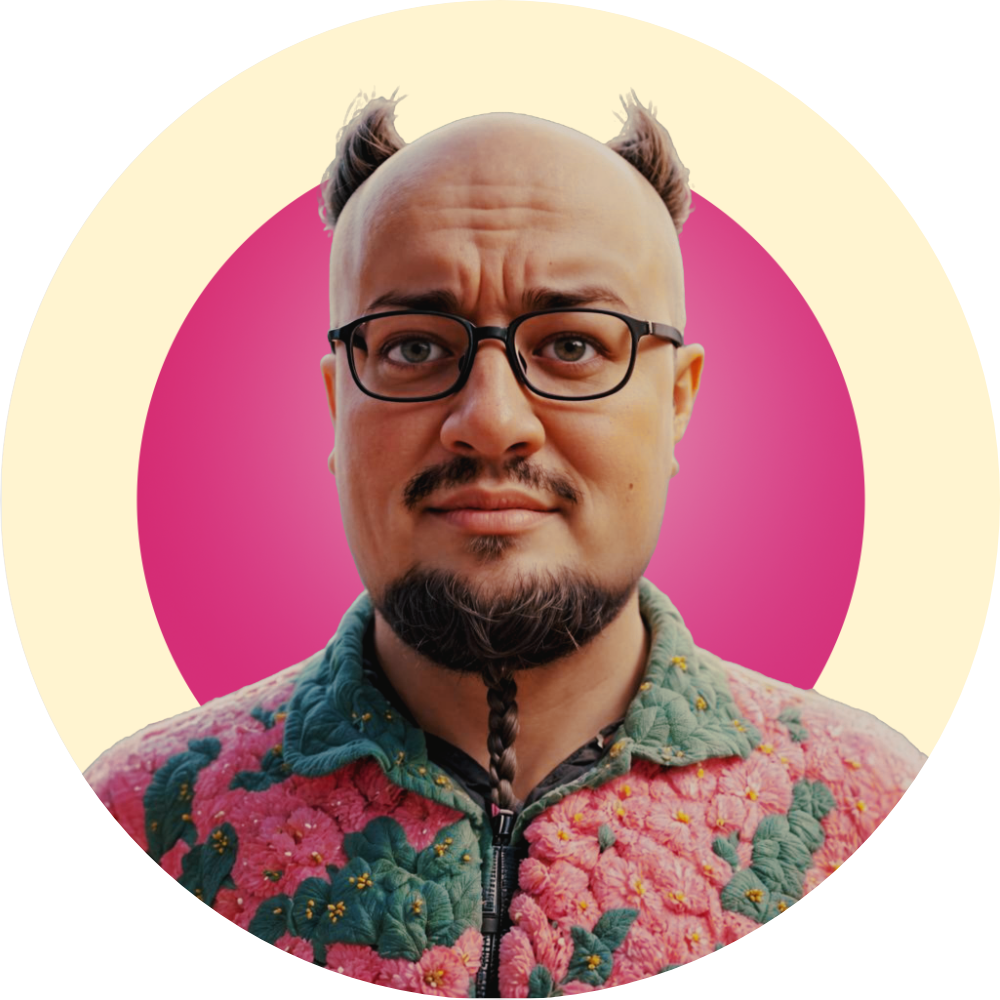
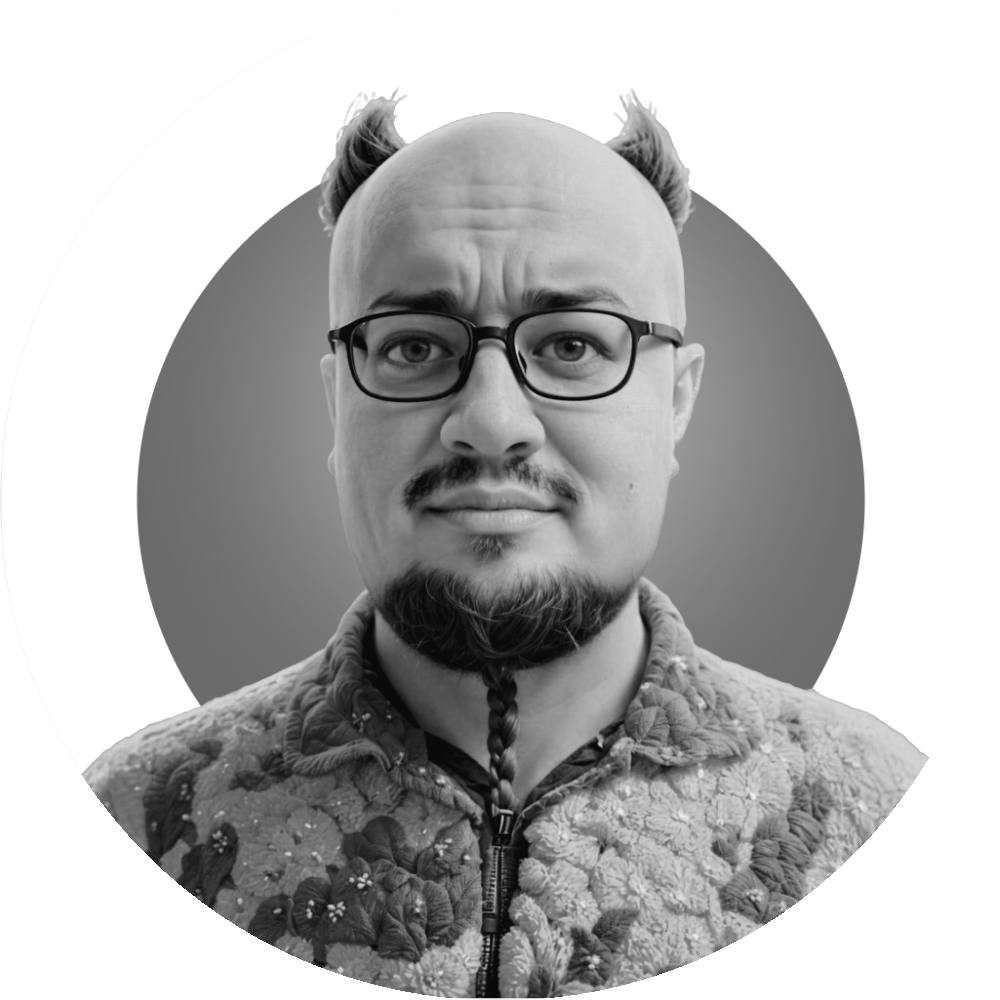
базовая версия
Update homepage content, enhance tab navigation styling, and improve achievements and career tabs. Adjusted skill tab layout and updated music career achievements. Replaced avatar image.

diff --git a/components/TabNavigation.tsx b/components/TabNavigation.tsx
@@ -11,45 +11,47 @@ interface TabNavigationProps {
 
 export function TabNavigation({ activeTab, onTabChange }: TabNavigationProps) {
   return (
-    <Tabs value={activeTab} onValueChange={(value) => onTabChange(value as TabValue)} className="w-full">
-      <TabsList className="inline-flex h-10 items-center justify-center rounded-md bg-white p-1 text-muted-foreground border border-gray-200">
-        <TabsTrigger 
-          value="personal"
-          className="inline-flex items-center justify-center whitespace-nowrap rounded-sm px-3 py-1.5 text-sm font-medium ring-offset-background transition-all focus-visible:outline-none focus-visible:ring-2 focus-visible:ring-ring focus-visible:ring-offset-2 disabled:pointer-events-none disabled:opacity-50 data-[state=active]:bg-gray-100 data-[state=active]:text-gray-900 data-[state=active]:shadow-sm"
-        >
-          Personal
-        </TabsTrigger>
-        <TabsTrigger 
-          value="career"
-          className="inline-flex items-center justify-center whitespace-nowrap rounded-sm px-3 py-1.5 text-sm font-medium ring-offset-background transition-all focus-visible:outline-none focus-visible:ring-2 focus-visible:ring-ring focus-visible:ring-offset-2 disabled:pointer-events-none disabled:opacity-50 data-[state=active]:bg-gray-100 data-[state=active]:text-gray-900 data-[state=active]:shadow-sm"
-        >
-          Career
-        </TabsTrigger>
-        <TabsTrigger 
-          value="achievements"
-          className="inline-flex items-center justify-center whitespace-nowrap rounded-sm px-3 py-1.5 text-sm font-medium ring-offset-background transition-all focus-visible:outline-none focus-visible:ring-2 focus-visible:ring-ring focus-visible:ring-offset-2 disabled:pointer-events-none disabled:opacity-50 data-[state=active]:bg-gray-100 data-[state=active]:text-gray-900 data-[state=active]:shadow-sm"
-        >
-          Achievements
-        </TabsTrigger>
-        <TabsTrigger 
-          value="skills"
-          className="inline-flex items-center justify-center whitespace-nowrap rounded-sm px-3 py-1.5 text-sm font-medium ring-offset-background transition-all focus-visible:outline-none focus-visible:ring-2 focus-visible:ring-ring focus-visible:ring-offset-2 disabled:pointer-events-none disabled:opacity-50 data-[state=active]:bg-gray-100 data-[state=active]:text-gray-900 data-[state=active]:shadow-sm"
-        >
-          Skills
-        </TabsTrigger>
-        <TabsTrigger 
-          value="timeline"
-          className="inline-flex items-center justify-center whitespace-nowrap rounded-sm px-3 py-1.5 text-sm font-medium ring-offset-background transition-all focus-visible:outline-none focus-visible:ring-2 focus-visible:ring-ring focus-visible:ring-offset-2 disabled:pointer-events-none disabled:opacity-50 data-[state=active]:bg-gray-100 data-[state=active]:text-gray-900 data-[state=active]:shadow-sm"
-        >
-          Timeline
-        </TabsTrigger>
-        <TabsTrigger 
-          value="music"
-          className="inline-flex items-center justify-center whitespace-nowrap rounded-sm px-3 py-1.5 text-sm font-medium ring-offset-background transition-all focus-visible:outline-none focus-visible:ring-2 focus-visible:ring-ring focus-visible:ring-offset-2 disabled:pointer-events-none disabled:opacity-50 data-[state=active]:bg-gray-100 data-[state=active]:text-gray-900 data-[state=active]:shadow-sm"
-        >
-          Music
-        </TabsTrigger>
-      </TabsList>
-    </Tabs>
+    <div className="flex justify-center w-full">
+      <Tabs value={activeTab} onValueChange={(value) => onTabChange(value as TabValue)} className="w-full max-w-4xl">
+        <TabsList className="inline-flex h-10 items-center justify-center rounded-md bg-white p-1 text-gray-500 border border-gray-200 w-full">
+          <TabsTrigger 
+            value="personal"
+            className="inline-flex items-center justify-center whitespace-nowrap rounded-sm px-3 py-1.5 text-sm font-medium ring-offset-background transition-all focus-visible:outline-none focus-visible:ring-2 focus-visible:ring-ring focus-visible:ring-offset-2 disabled:pointer-events-none disabled:opacity-50 data-[state=active]:bg-gray-100 data-[state=active]:text-gray-900 data-[state=active]:shadow-sm hover:text-gray-900"
+          >
+            Personal
+          </TabsTrigger>
+          <TabsTrigger 
+            value="career"
+            className="inline-flex items-center justify-center whitespace-nowrap rounded-sm px-3 py-1.5 text-sm font-medium ring-offset-background transition-all focus-visible:outline-none focus-visible:ring-2 focus-visible:ring-ring focus-visible:ring-offset-2 disabled:pointer-events-none disabled:opacity-50 data-[state=active]:bg-gray-100 data-[state=active]:text-gray-900 data-[state=active]:shadow-sm hover:text-gray-900"
+          >
+            Career
+          </TabsTrigger>
+          <TabsTrigger 
+            value="achievements"
+            className="inline-flex items-center justify-center whitespace-nowrap rounded-sm px-3 py-1.5 text-sm font-medium ring-offset-background transition-all focus-visible:outline-none focus-visible:ring-2 focus-visible:ring-ring focus-visible:ring-offset-2 disabled:pointer-events-none disabled:opacity-50 data-[state=active]:bg-gray-100 data-[state=active]:text-gray-900 data-[state=active]:shadow-sm hover:text-gray-900"
+          >
+            Achievements
+          </TabsTrigger>
+          <TabsTrigger 
+            value="skills"
+            className="inline-flex items-center justify-center whitespace-nowrap rounded-sm px-3 py-1.5 text-sm font-medium ring-offset-background transition-all focus-visible:outline-none focus-visible:ring-2 focus-visible:ring-ring focus-visible:ring-offset-2 disabled:pointer-events-none disabled:opacity-50 data-[state=active]:bg-gray-100 data-[state=active]:text-gray-900 data-[state=active]:shadow-sm hover:text-gray-900"
+          >
+            Skills
+          </TabsTrigger>
+          <TabsTrigger 
+            value="timeline"
+            className="inline-flex items-center justify-center whitespace-nowrap rounded-sm px-3 py-1.5 text-sm font-medium ring-offset-background transition-all focus-visible:outline-none focus-visible:ring-2 focus-visible:ring-ring focus-visible:ring-offset-2 disabled:pointer-events-none disabled:opacity-50 data-[state=active]:bg-gray-100 data-[state=active]:text-gray-900 data-[state=active]:shadow-sm hover:text-gray-900"
+          >
+            Timeline
+          </TabsTrigger>
+          <TabsTrigger 
+            value="music"
+            className="inline-flex items-center justify-center whitespace-nowrap rounded-sm px-3 py-1.5 text-sm font-medium ring-offset-background transition-all focus-visible:outline-none focus-visible:ring-2 focus-visible:ring-ring focus-visible:ring-offset-2 disabled:pointer-events-none disabled:opacity-50 data-[state=active]:bg-gray-100 data-[state=active]:text-gray-900 data-[state=active]:shadow-sm hover:text-gray-900"
+          >
+            Music
+          </TabsTrigger>
+        </TabsList>
+      </Tabs>
+    </div>
   );
 }

diff --git a/components/tabs/CareerTab.tsx b/components/tabs/CareerTab.tsx
@@ -13,15 +13,15 @@ export function CareerTab({ careers }: CareerTabProps) {
   return (
     <Card>
       <CardContent className="p-6">
-        <div className="space-y-8">
+        <div className="space-y-8 max-w-4xl mx-auto">
           {careers.map((role, index) => (
-            <div key={index} className="relative pl-6 border-l-2 border-blue-500">
-              <div className="absolute -left-[9px] top-0 w-4 h-4 bg-blue-500 rounded-full" />
+            <div key={index} className="relative pl-6 border-l-2 border-gray-300">
+              <div className="absolute -left-[9px] top-0 w-4 h-4 bg-gray-300 rounded-full" />
               
               <div className="flex flex-col md:flex-row md:items-center md:justify-between mb-2">
                 <div>
                   <h3 className="text-xl font-semibold text-gray-900">{role.title}</h3>
-                  <p className="text-lg text-blue-600">{role.company}</p>
+                  <p className="text-lg text-gray-700">{role.company}</p>
                 </div>
                 <div className="text-right">
                   <p className="text-sm text-gray-600">{role.period}</p>
@@ -49,7 +49,7 @@ export function CareerTab({ careers }: CareerTabProps) {
                   </div>
                   <div className="flex flex-wrap gap-2">
                     {role.achievements.map((achievement, idx) => (
-                      <Badge key={idx} variant="secondary" className="text-sm">
+                      <Badge key={idx} variant="secondary" className="text-sm bg-gray-100 text-gray-800 hover:bg-gray-200">
                         {achievement}
                       </Badge>
                     ))}
@@ -65,7 +65,7 @@ export function CareerTab({ careers }: CareerTabProps) {
                   </div>
                   <div className="flex flex-wrap gap-2">
                     {role.skills.map((skill, idx) => (
-                      <Badge key={idx} variant="outline" className="text-sm">
+                      <Badge key={idx} variant="outline" className="text-sm text-gray-700 border-gray-300 hover:bg-gray-50">
                         {skill}
                       </Badge>
                     ))}

diff --git a/components/tabs/AchievementsTab.tsx b/components/tabs/AchievementsTab.tsx
@@ -7,17 +7,17 @@ export function AchievementsTab() {
     <Card>
       <CardContent className="p-6">
         <div className="space-y-4">
-          <div className="bg-green-50 p-4 rounded-lg">
-            <h3 className="font-semibold text-green-800">$21M</h3>
-            <p className="text-sm text-green-600">Revenue generated through gamification projects</p>
+          <div className="border rounded-lg p-4">
+            <h3 className="font-semibold text-gray-900">$21M</h3>
+            <p className="text-sm text-gray-600">Revenue generated through gamification projects</p>
           </div>
-          <div className="bg-blue-50 p-4 rounded-lg">
-            <h3 className="font-semibold text-blue-800">Halva Brand Creation</h3>
-            <p className="text-sm text-blue-600">Most popular BNPL card in Belarus and Russia</p>
+          <div className="border rounded-lg p-4">
+            <h3 className="font-semibold text-gray-900">Halva Brand Creation</h3>
+            <p className="text-sm text-gray-600">Most popular BNPL card in Belarus and Russia</p>
           </div>
-          <div className="bg-purple-50 p-4 rounded-lg">
-            <h3 className="font-semibold text-purple-800">Published Author</h3>
-            <p className="text-sm text-purple-600">"Effective Branding" - Guide on innovative branding strategies</p>
+          <div className="border rounded-lg p-4">
+            <h3 className="font-semibold text-gray-900">Published Author</h3>
+            <p className="text-sm text-gray-600">"Effective Branding" - Guide on innovative branding strategies</p>
           </div>
         </div>
       </CardContent>

diff --git a/app/page.tsx b/app/page.tsx
@@ -55,8 +55,8 @@ export default function Home() {
             <p className="text-gray-600">Chief AI Officer @ TDI Group</p>
           </div>
           
-          <h2 className="text-3xl md:text-5xl font-bold mb-8 max-w-3xl mx-auto">
-            Building digital products, brands, and experience.
+          <h2 className="text-2xl md:text-4xl font-bold mb-8">
+            Driving creativity and innovations with AI
           </h2>
           
           <Button variant="default" size="lg" className="rounded-full px-8">
@@ -83,13 +83,13 @@ export default function Home() {
       <div className="relative bg-white rounded-[32px] mb-8 md:mb-16">
         <div className="w-full px-4 py-12 md:py-20">
           <div className="text-center mb-12 md:mb-16">
-            <h2 className="text-2xl md:text-3xl font-bold mb-4 max-w-2xl mx-auto">
+            <h2 className="text-2xl md:text-3xl font-bold text-gray-800 mb-4">
               Collaborate with brands and agencies<br className="hidden md:block" />
               to create impactful results.
             </h2>
           </div>
 
-          <div className="grid grid-cols-1 md:grid-cols-4 gap-8 max-w-lg md:max-w-none mx-auto">
+          <div className="grid grid-cols-1 md:grid-cols-4 gap-8 max-w-[500px] md:max-w-none mx-auto">
             <div className="p-4 md:p-6 text-center md:text-left">
               <div className="mb-4 flex justify-center md:justify-start">
                 <svg className="w-8 h-8" viewBox="0 0 24 24" fill="none" xmlns="http://www.w3.org/2000/svg">

diff --git a/components/tabs/SkillsTab.tsx b/components/tabs/SkillsTab.tsx
@@ -7,16 +7,16 @@ export function SkillsTab() {
   return (
     <Card>
       <CardContent className="p-6">
-        <div className="grid grid-cols-1 md:grid-cols-2 gap-4 max-w-lg md:max-w-none mx-auto">
+        <div className="grid grid-cols-1 md:grid-cols-2 gap-4 max-w-[500px] md:max-w-none mx-auto">
           {skills.map((item, index) => (
             <div key={index} className="space-y-2">
-              <div className="flex justify-between text-sm">
+              <div className="flex justify-between text-sm text-gray-600">
                 <span>{item.name}</span>
                 <span>{item.level}%</span>
               </div>
-              <div className="h-2 bg-gray-200 rounded-full">
+              <div className="h-2 bg-gray-100 rounded-full">
                 <div 
-                  className="h-full bg-blue-500 rounded-full transition-all duration-500"
+                  className="h-full bg-gray-800 rounded-full transition-all duration-500"
                   style={{ width: `${item.level}%` }}
                 />
               </div>

diff --git a/lib/data.ts b/lib/data.ts
@@ -226,8 +226,8 @@ export const musicCareer: MusicCareer = {
   genres: ["House", "Techno", "Drum-n-bass", "Electronica", "World music"],
   achievements: [
     "Built and managed 3 successful nightclubs",
-    "Released 5 original tracks",
-    "Organized 100+ events",
+    "Released 5 original EP's",
+    "Organized 1000+ events",
     "Performed at major festivals",
   ],
   currentActivity: "Still records mixtapes and DJ mixes",
